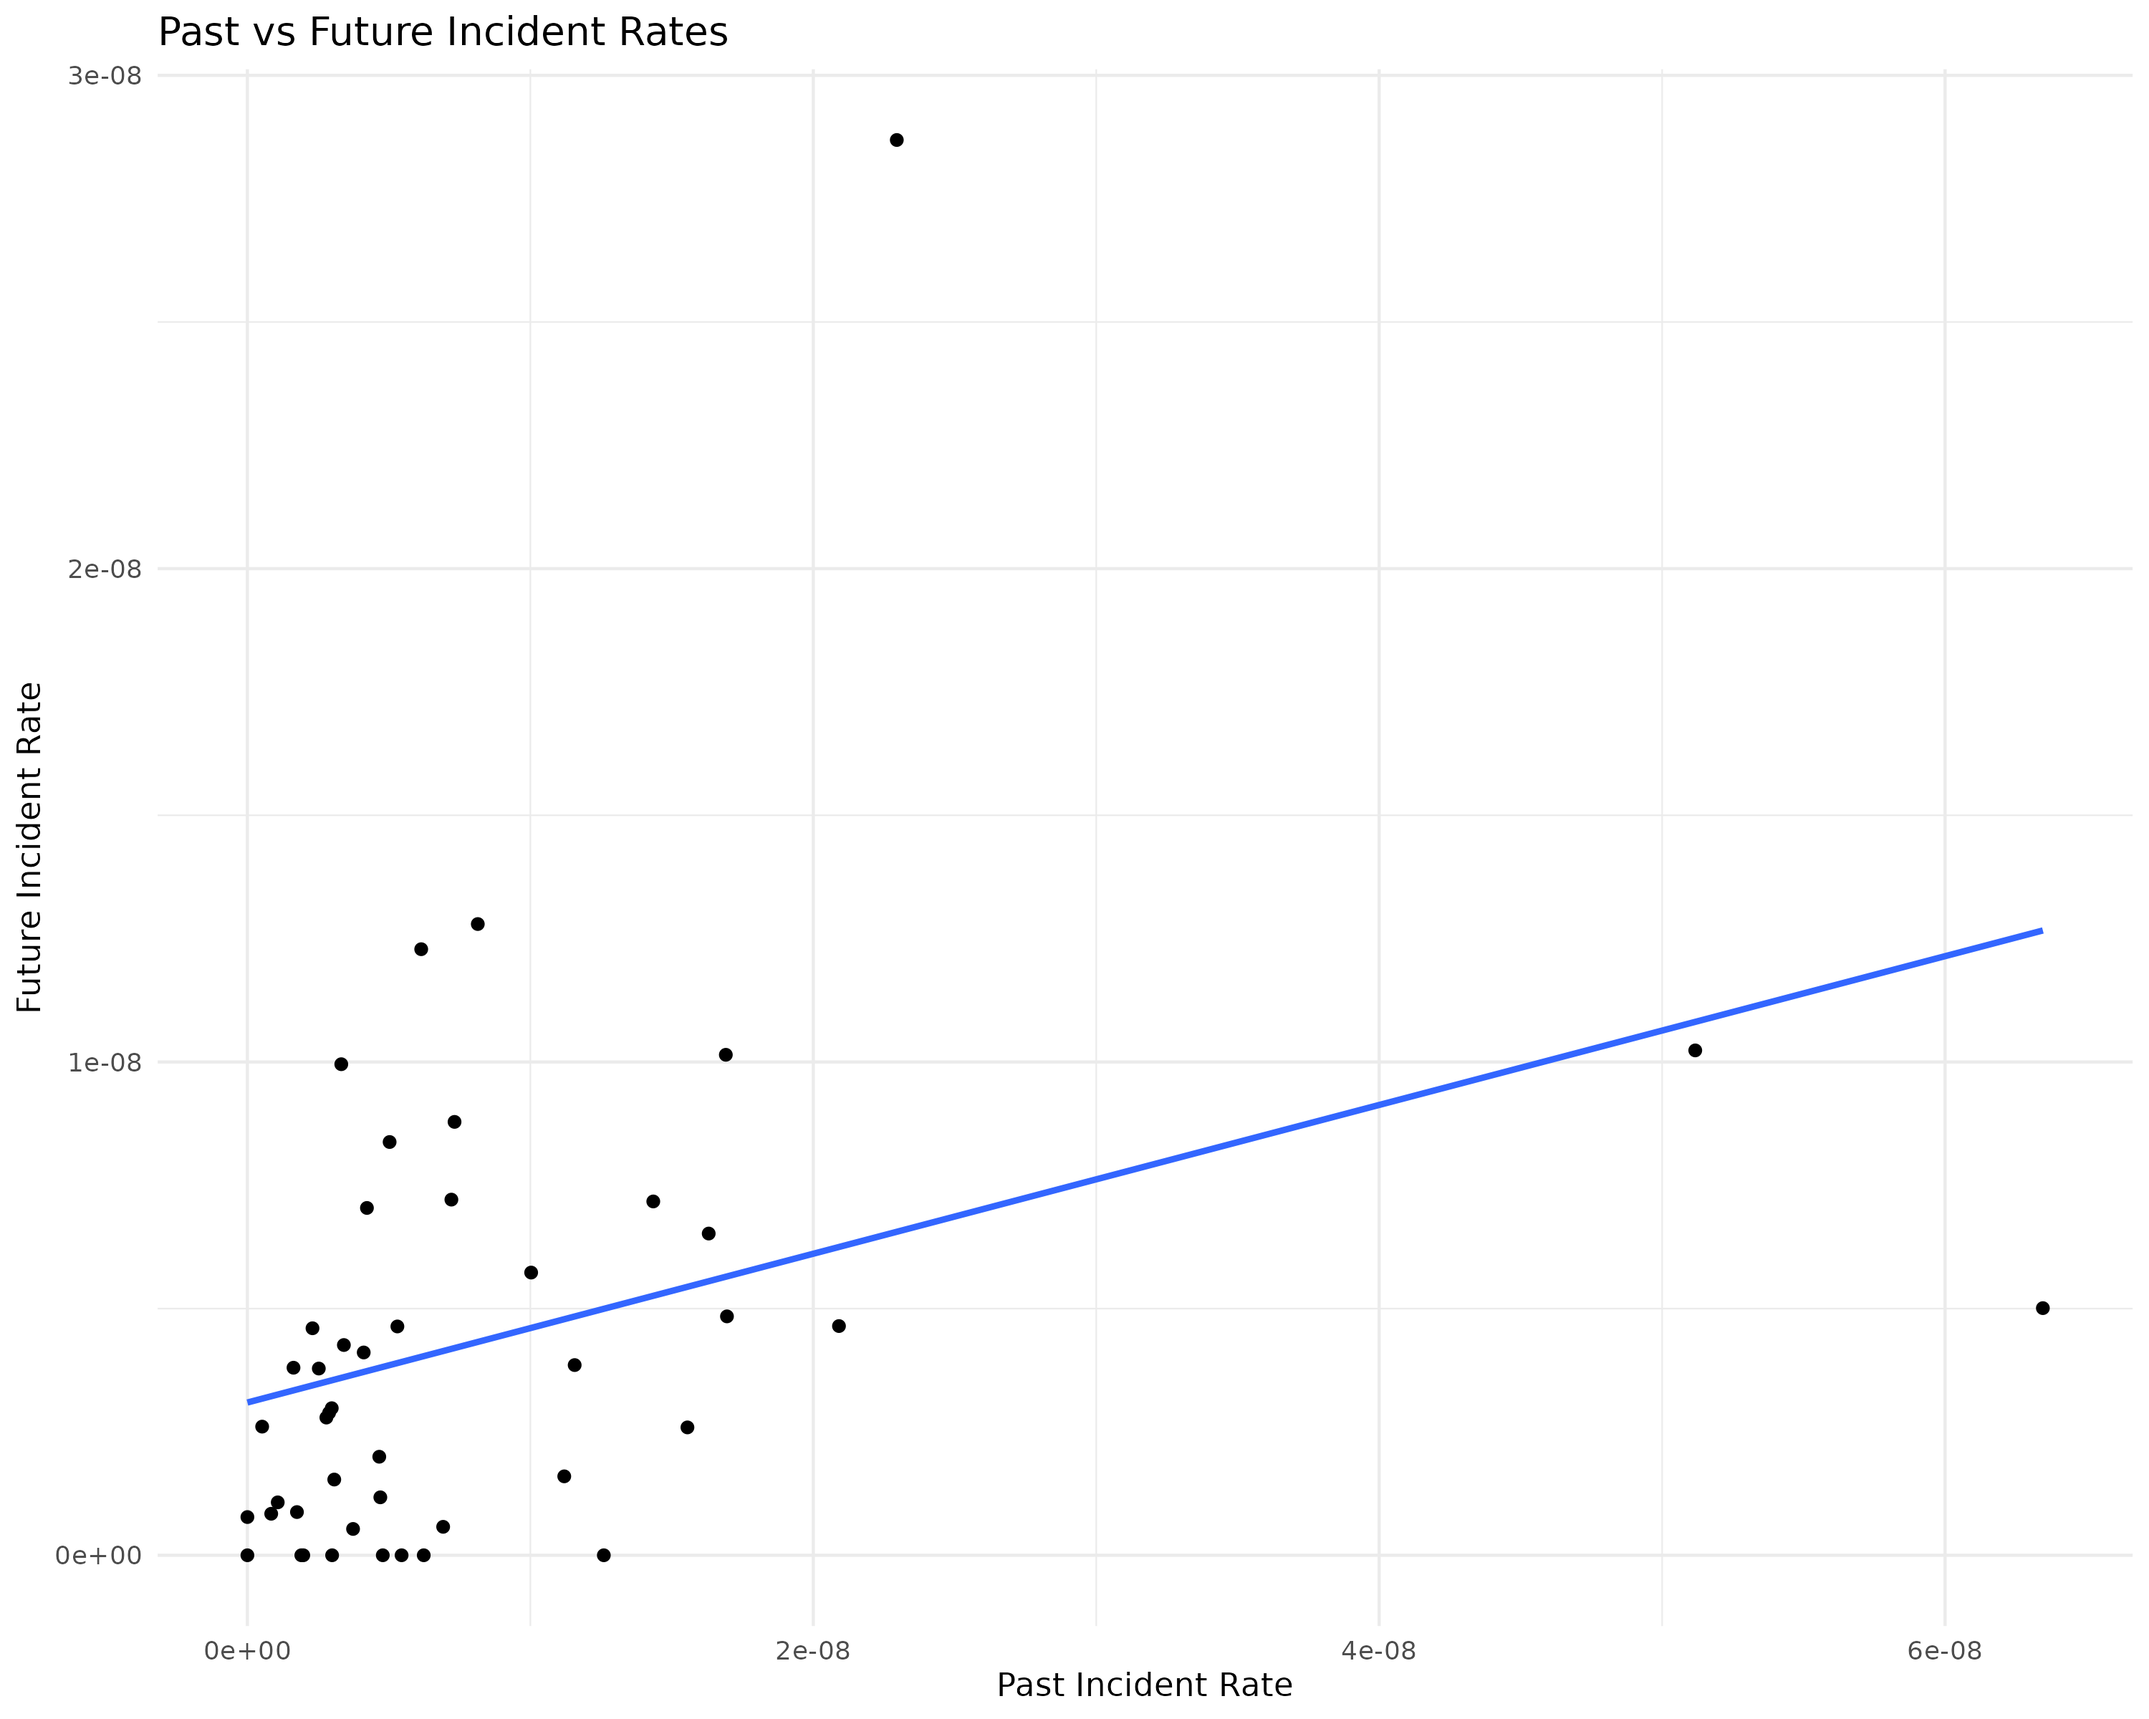
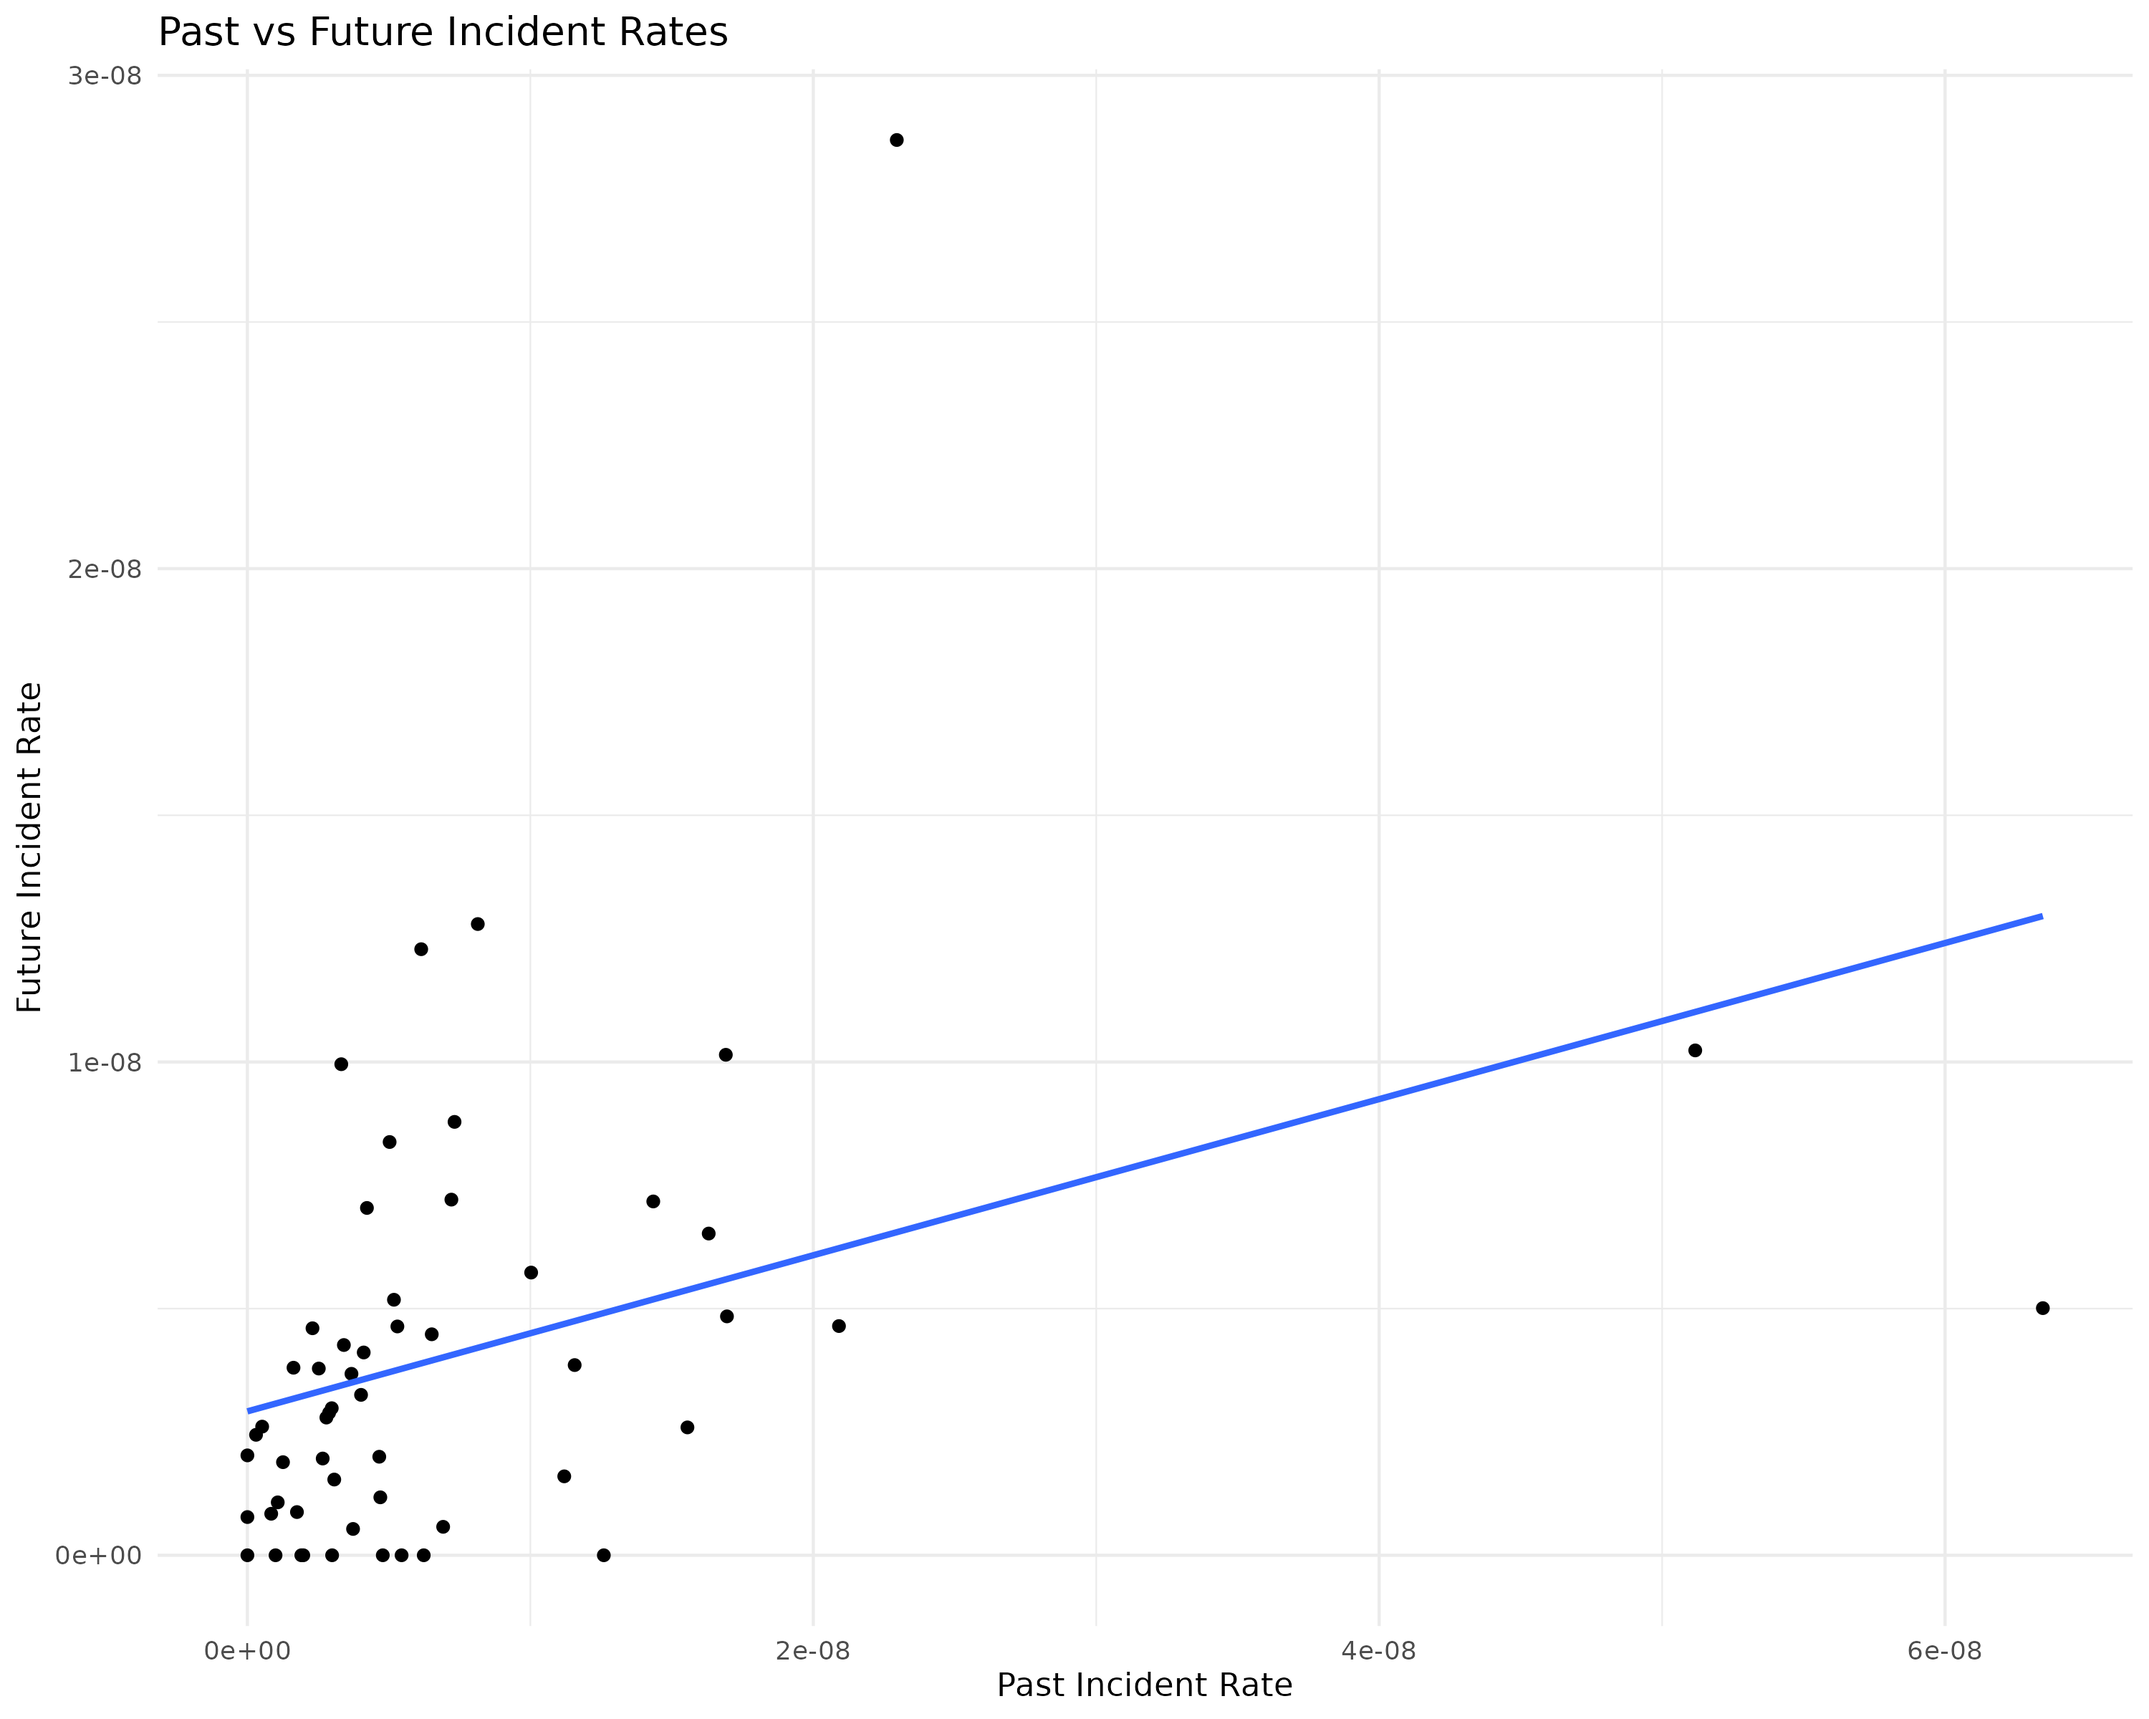
using composite safety score to matche silver's correlation

diff --git a/README.md b/README.md
@@ -24,4 +24,4 @@ Seán, Cillian, Raphaël, Grace
 
 ## Data Sources
 - Airline safety data: provided by Szymon (originally from FiveThirtyEight/Aviation Safety Network)
-- GDP data: [to be added]
+- GDP data: GDP per capita (constant 2015 US$) dataset, sourced from Our World in Data
